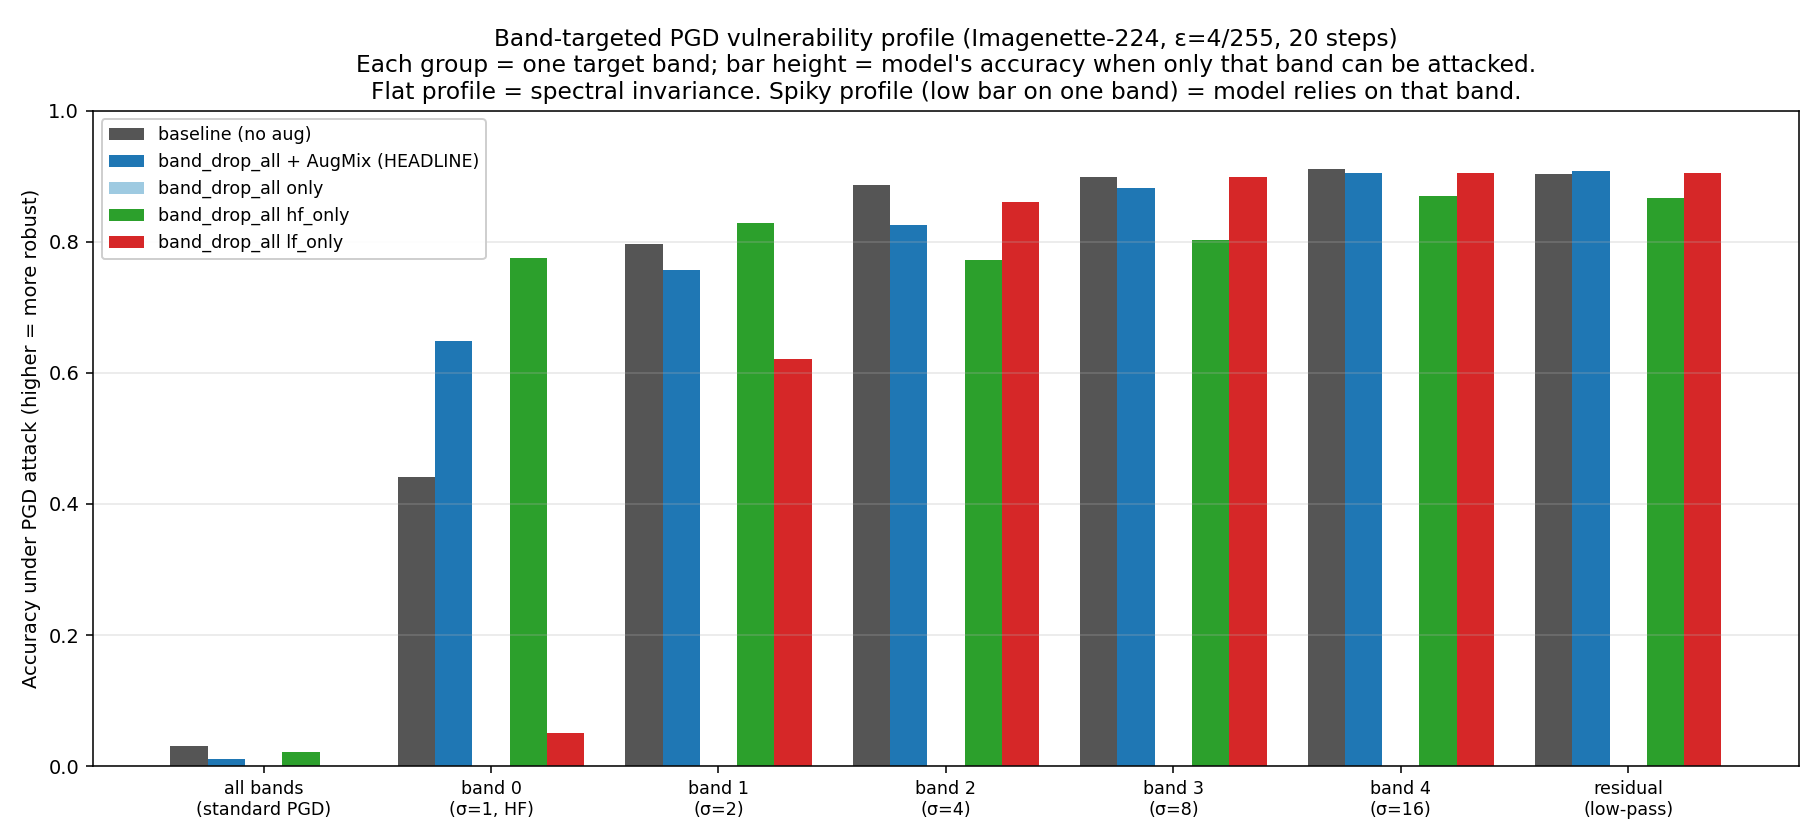
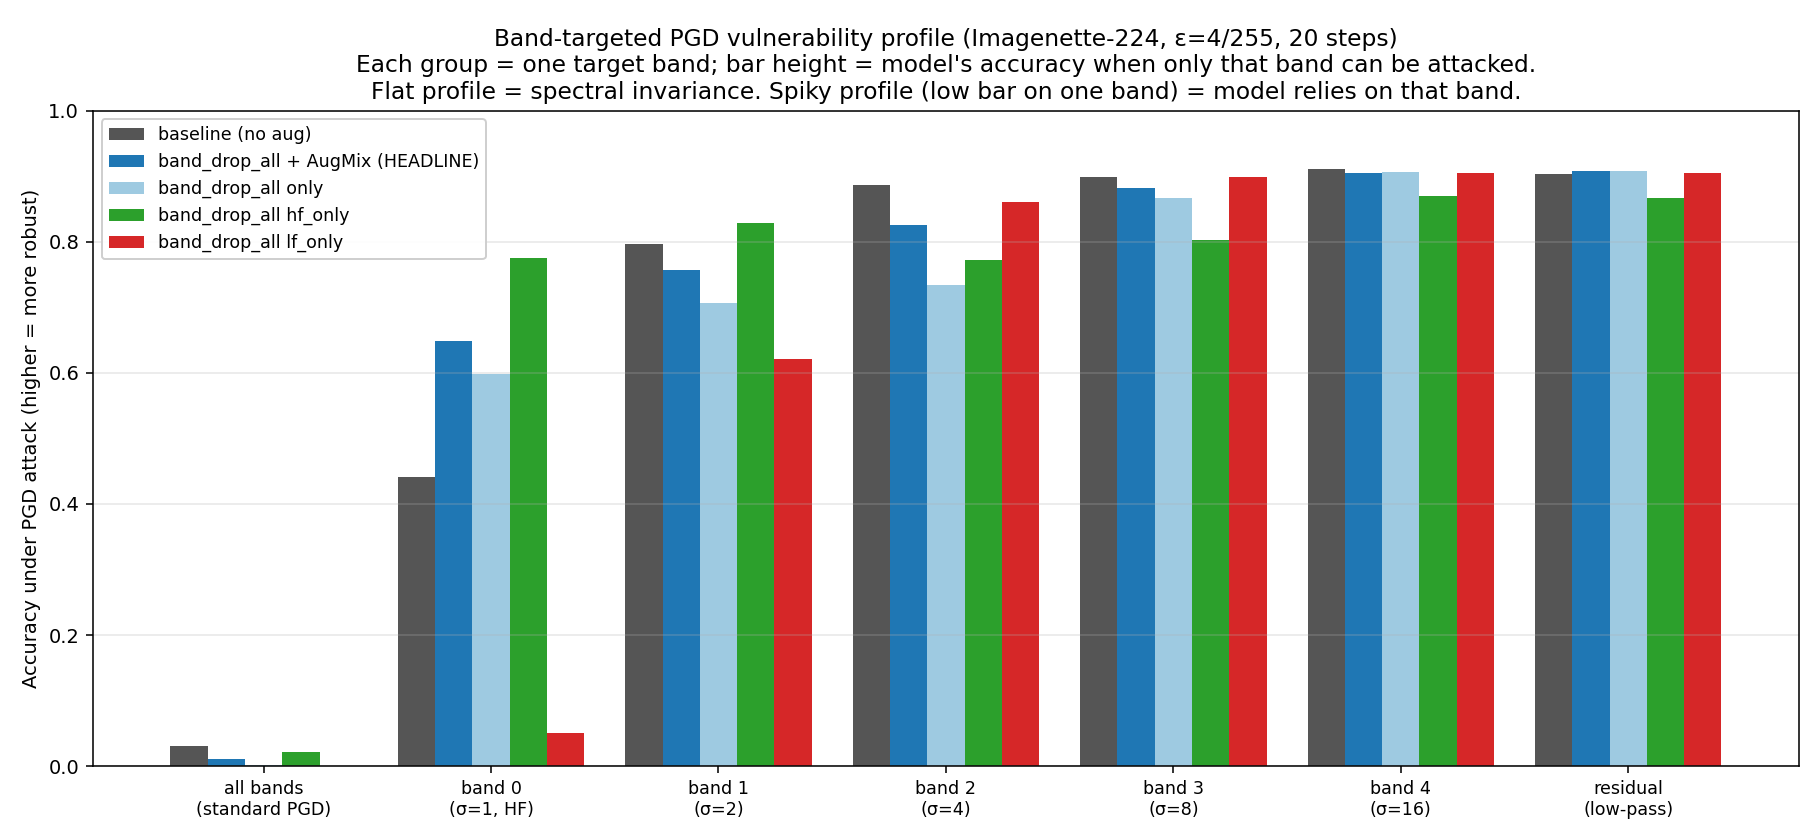
Complete band-targeted PGD: recover bd_only row
The original bd_only checkpoint (band_drop_all r0, no AugMix) was lost
when the bandmask retrain script overwrote checkpoints/band_drop_all_r0.pt.
Retrained with --seed-offset 0 + --save-checkpoints and ran the 7-attack
PGD sweep. Full 5-model picture now in figures/band_targeted_pgd.png and
docs/band_targeted_pgd_table.md.

bd_only fits the predicted spectral-robustness pattern:

  Band 0 (HF) accuracy:
    baseline:    0.441
    bd_only:     0.598   (+15.7 pp vs baseline)
    bd_augmix:   0.648   (+20.7 pp; AugMix adds ~5 pp on top of bd-only)
    hf_only:     0.775
    lf_only:     0.050   (catastrophic over-reliance on HF)

  Spikiness (max − min acc):
    baseline:    0.470
    bd_only:     0.310   (34% flatter)
    bd_augmix:   0.260   (45% flatter)
    hf_only:     0.098   (79% flatter — most spectrally invariant)
    lf_only:     0.855   (82% MORE spiky)

Confirms that training with random multi-band dropout alone already
substantially flattens the per-band PGD vulnerability profile; AugMix
on top adds incremental robustness.

Adds run_bd_only_recovery.sh (the recovery script) for traceability.

diff --git a/docs/band_targeted_pgd_table.md b/docs/band_targeted_pgd_table.md
@@ -9,6 +9,6 @@ Accuracy under the attack (higher = more robust).
 |---|---|---|---|---|---|---|---|
 | baseline (no aug) | 0.031 | 0.441 | 0.796 | 0.886 | 0.899 | 0.911 | 0.903 |
 | band_drop_all + AugMix (HEADLINE) | 0.011 | 0.648 | 0.757 | 0.826 | 0.882 | 0.904 | 0.908 |
-| band_drop_all only | — | — | — | — | — | — | — |
+| band_drop_all only | 0.002 | 0.598 | 0.706 | 0.734 | 0.866 | 0.906 | 0.908 |
 | band_drop_all hf_only | 0.022 | 0.775 | 0.828 | 0.772 | 0.802 | 0.870 | 0.866 |
 | band_drop_all lf_only | 0.001 | 0.050 | 0.621 | 0.861 | 0.899 | 0.904 | 0.905 |
